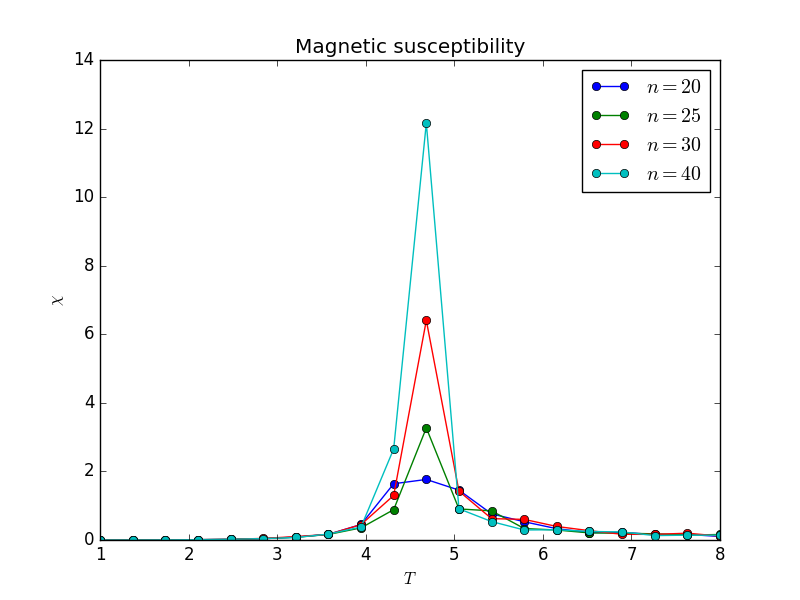
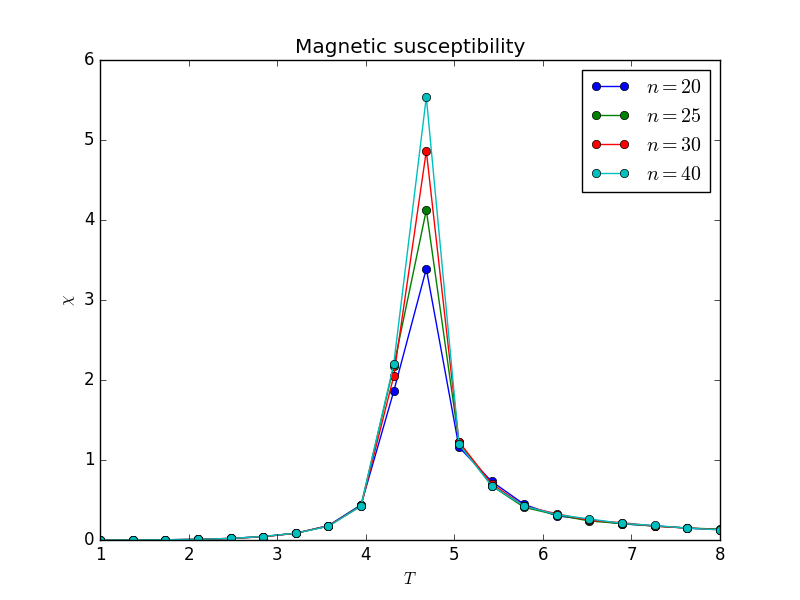
Better plots

diff --git a/src/c/run.c b/src/c/run.c
@@ -55,8 +55,8 @@ void run_plotting() {
   int t_len = 20;
   int sizes[] = {20,25,30,40};
   int sizes_len = 4;
-  int mc = 5e2;
-  int trans = 5e2;
+  int mc = 1e4;
+  int trans = 1e3;
 
  run_multiple_sizes(T, t_len, sizes, sizes_len, J, mc, trans, "output");
 
